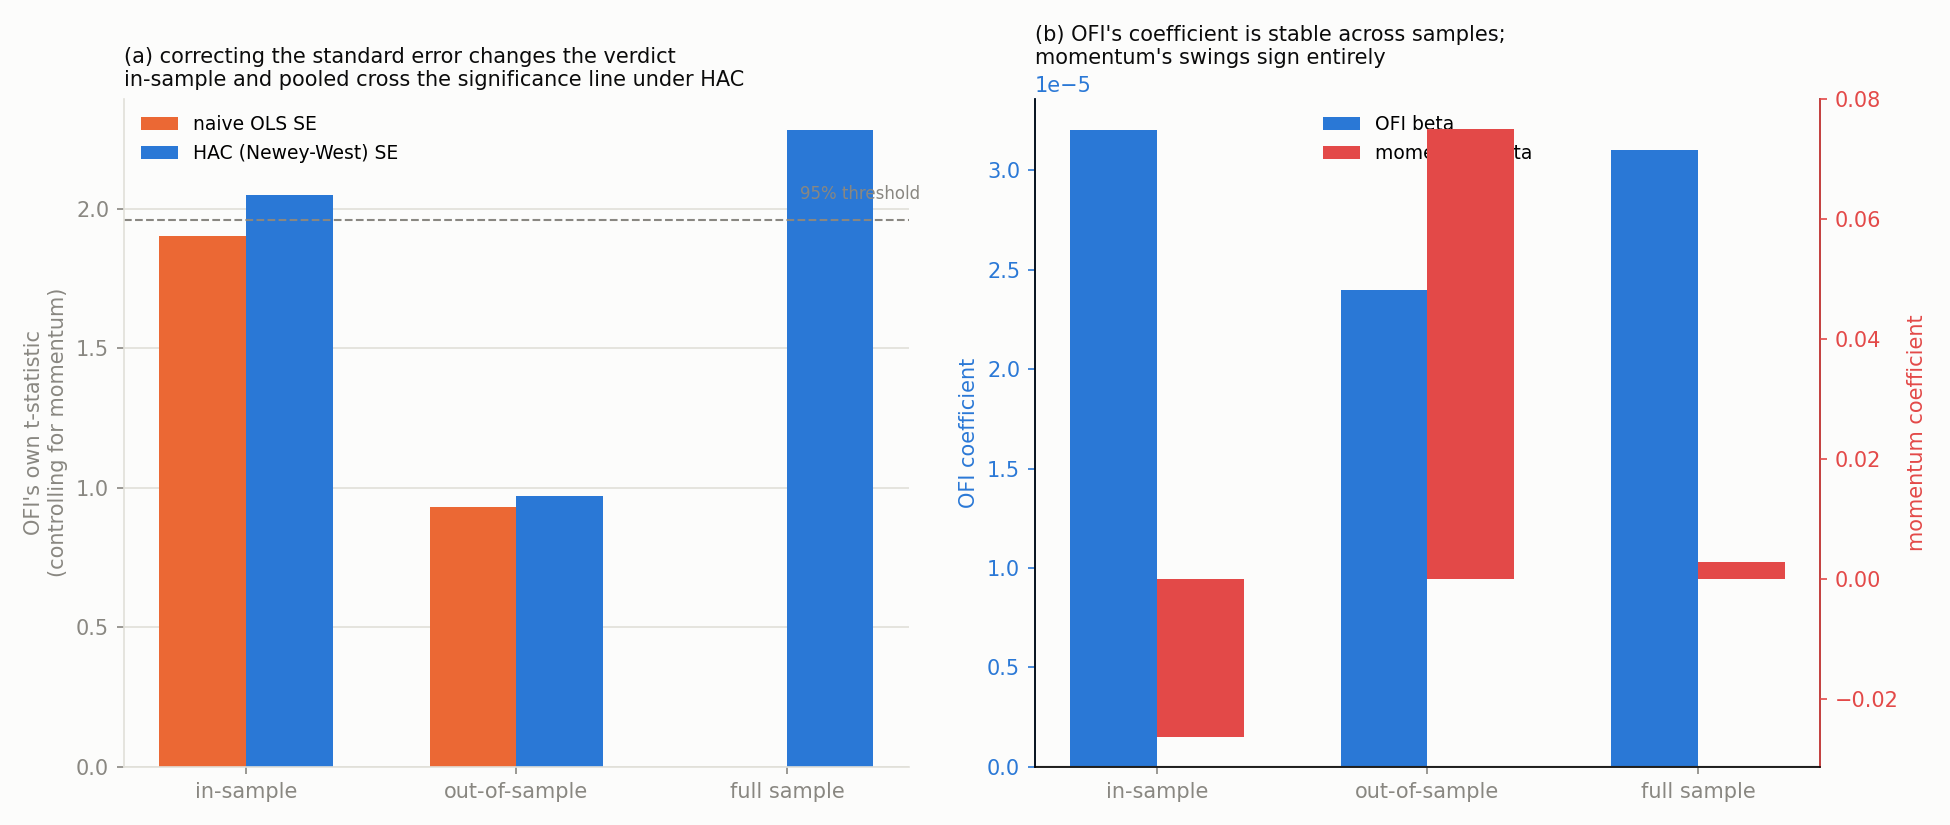
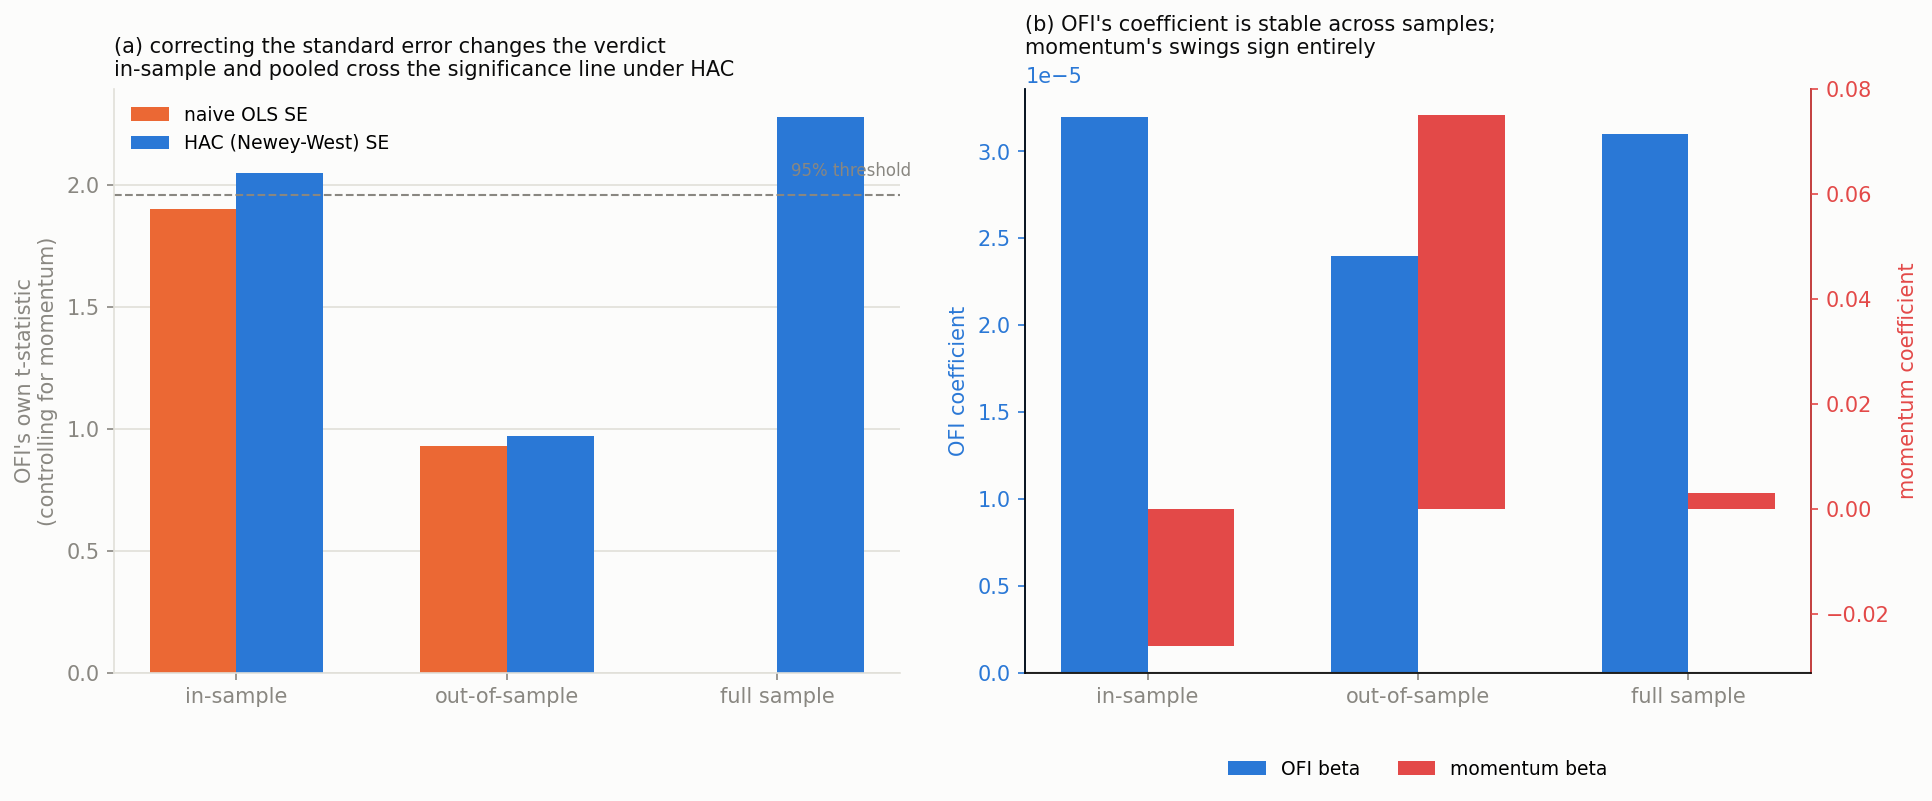
Fix legend overlap in HAC chart (panel b)
Legend was placed with loc='upper center', which sat directly on top of the tallest momentum-beta bar (out-of-sample), clipping the label. Moved the legend below the axes and save with bbox_inches='tight' so nothing gets cut off. Also made the script write to results/ by absolute path instead of relying on cwd, so re-running it from elsewhere doesn't drop the output in the wrong folder.

diff --git a/microstructure-research/unit6/chart_hac.py b/microstructure-research/unit6/chart_hac.py
@@ -1,8 +1,11 @@
+import os
 import pandas as pd
 import matplotlib
 matplotlib.use('Agg')
 import matplotlib.pyplot as plt
 import numpy as np
+
+OUT_PATH = os.path.join(os.path.dirname(os.path.abspath(__file__)), 'results', 'crypto_hac_chart.png')
 
 BLUE = '#2a78d6'
 ORANGE = '#eb6834'
@@ -66,8 +69,9 @@ ax2.tick_params(axis='y', colors=BLUE)
 axt.tick_params(axis='y', colors=RED)
 ax2.tick_params(axis='x', colors=MUTED)
 lines = [b1, b2]
-ax2.legend(lines, ['OFI beta', 'momentum beta'], frameon=False, loc='upper center', fontsize=9)
+ax2.legend(lines, ['OFI beta', 'momentum beta'], frameon=False, loc='upper center',
+           bbox_to_anchor=(0.5, -0.12), ncol=2, fontsize=9)
 
 plt.tight_layout()
-plt.savefig('crypto_hac_chart.png', dpi=150, facecolor=SURFACE)
+plt.savefig(OUT_PATH, dpi=150, facecolor=SURFACE, bbox_inches='tight')
 print("saved")
